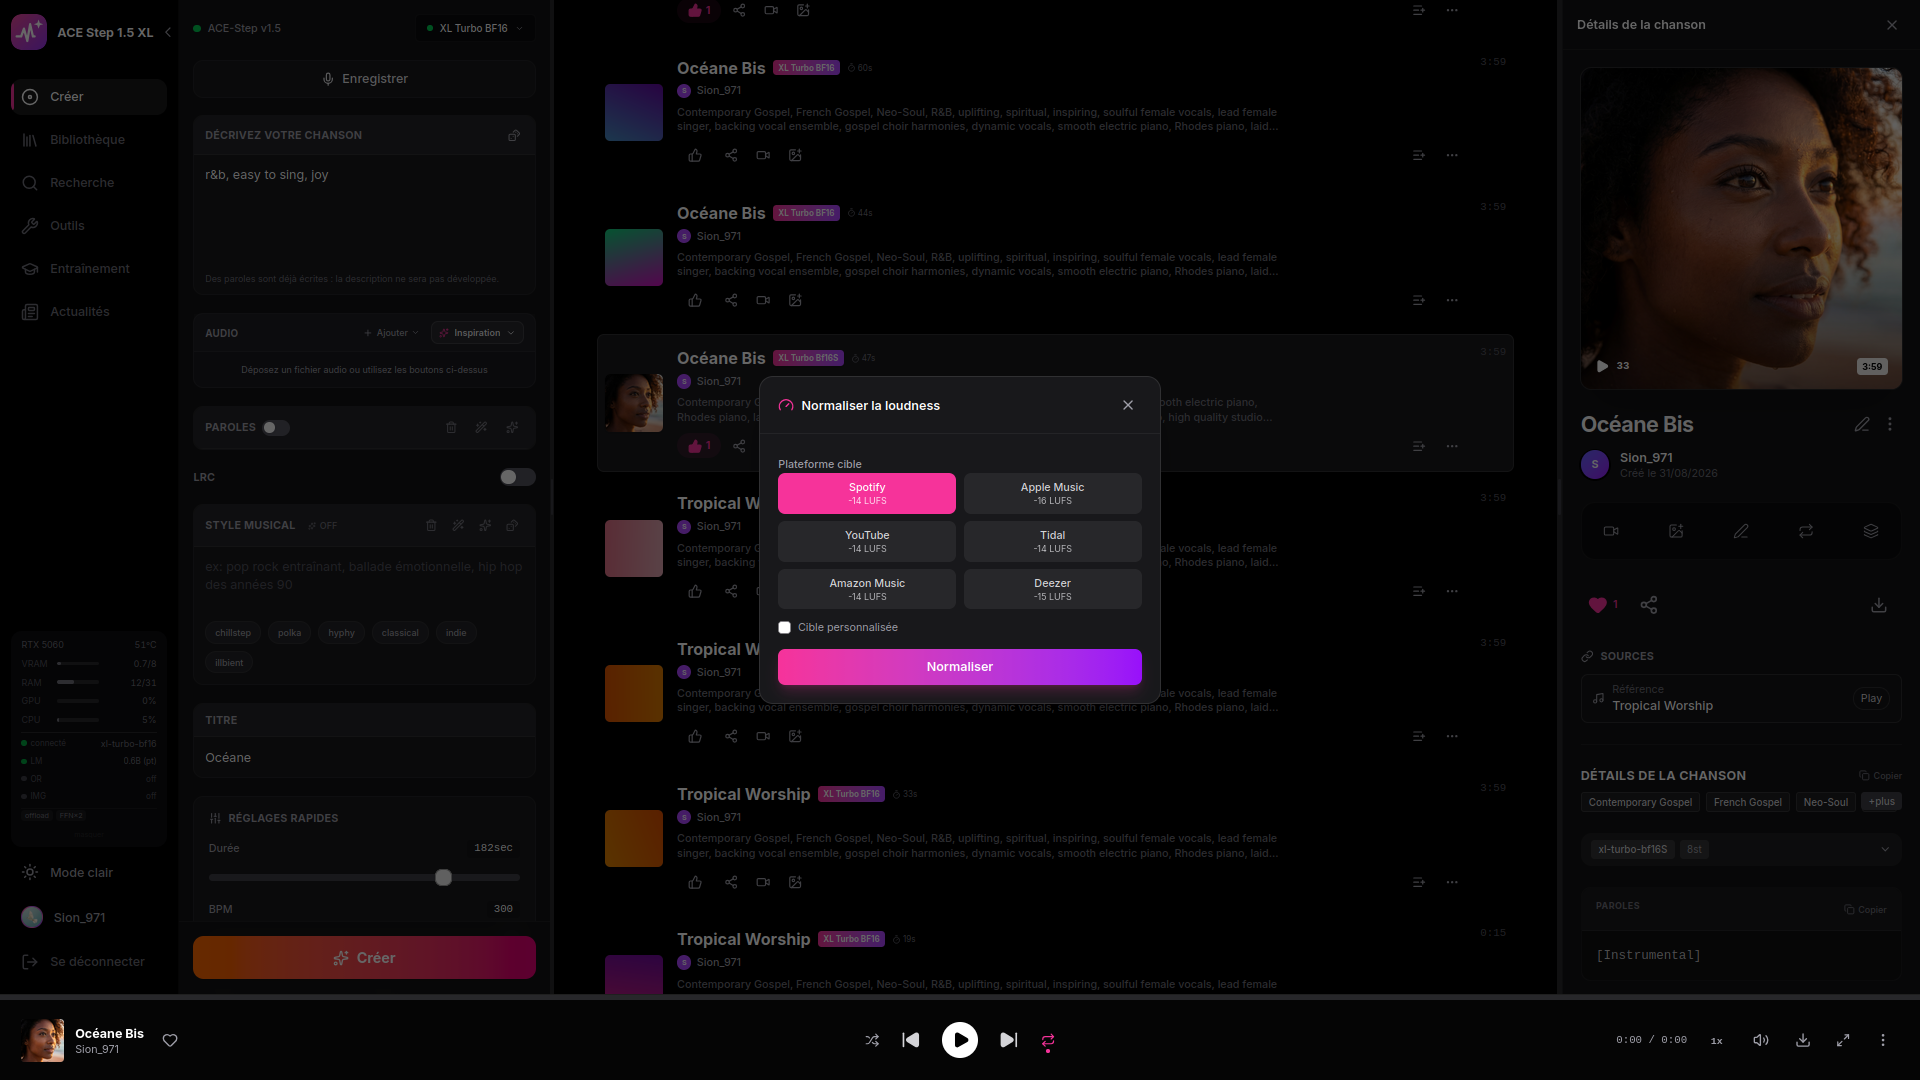
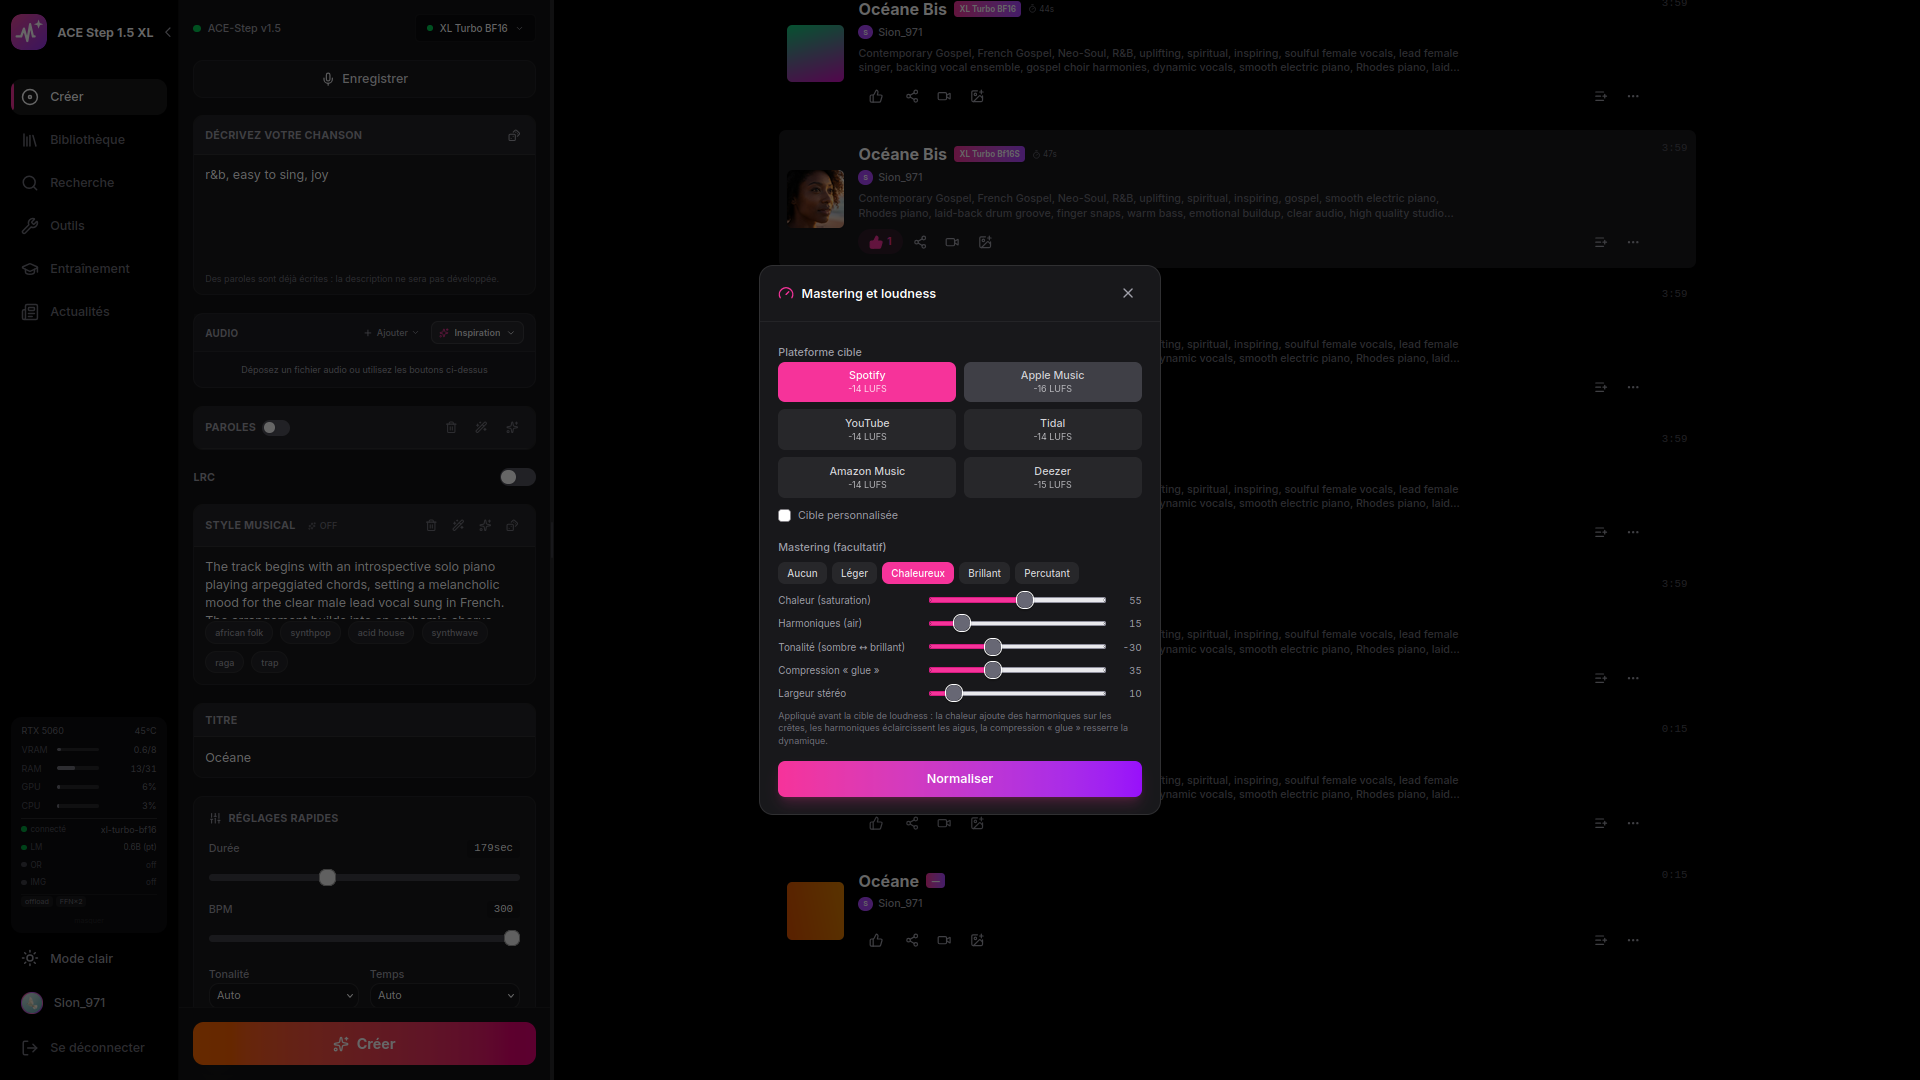
README : mastering et ecoute avant/apres ; captures de la fenetre refaites
Claude-Session: https://claude.ai/code/session_01B5iPA9vTox3QMnqfEgR6vu

diff --git a/README.md b/README.md
@@ -28,7 +28,7 @@ Both platforms share the same underlying approach: a single [`uv`](https://githu
 - **Playlists vs. Workspaces** — a real separation between curated playlists and working sessions, with exclusive workspace membership (a song lives in one workspace at a time) and a virtual "default" view computed by exclusion.
 - **Stem separation, server-side** — [Demucs](https://github.com/facebookresearch/demucs) running in its own isolated environment, in 4 or 6 stems (adding guitar and piano). Synchronized playback with a per-stem mute, and no more browser RAM ceiling on the 6-stem model.
 - **MIDI conversion, server-side** — [basic-pitch](https://github.com/spotify/basic-pitch) running in an isolated Python 3.11 environment (its TensorFlow dependency doesn't ship wheels for newer Python), converting stems to MIDI in seconds rather than tens of minutes in-browser, with a piano roll and built-in synthesizer to hear the result.
-- **Loudness normalization** — normalize a track to a streaming platform's LUFS target (Spotify, Apple Music, YouTube, ...) with two-pass `ffmpeg` loudnorm, and compare before/after before downloading.
+- **Mastering and loudness normalization** — optional mastering (warmth and harmonics, tone, glue compression, stereo width, with presets), then normalization to a streaming platform's LUFS target (Spotify, Apple Music, YouTube, ...) with two-pass `ffmpeg` loudnorm; compare the original and the result at the same volume before downloading.
 - **AudioMass, updated and wired in** — upgraded to the multitrack build, with direct-load support: open a single stem or all of a song's stems together as separate tracks, straight from the browser, no manual export/import round-trip.
 - **LoRA training from the UI** — the full scan → label → preprocess → train pipeline, drivable from React without dropping into Gradio directly.
 - **One installer per platform, both `uv`-based and GPU-aware** — detects your actual compute capability and compiler version, not just a menu choice, and knows when `flash-attn` will and won't build correctly for your hardware (Blackwell/RTX 50-series needs CUDA 12.8+ to compile it at all on Linux, or a matching prebuilt wheel on Windows — both installers check this before attempting work that's doomed to fail).
@@ -64,7 +64,7 @@ Both platforms share the same underlying approach: a single [`uv`](https://githu
   <em>All six Demucs stems, opened together as separate tracks in the AudioMass editor.</em>
 </p>
 
-### Stems, MIDI and loudness
+### Stems, MIDI, mastering and loudness
 
 <table>
   <tr>
@@ -81,16 +81,16 @@ Both platforms share the same underlying approach: a single [`uv`](https://githu
   </tr>
   <tr>
     <td align="center"><em>Stems and normalized download, one click from any song</em></td>
-    <td align="center"><em>Pick a streaming platform's LUFS target, or your own</em></td>
+    <td align="center"><em>Optional mastering, then a streaming platform's LUFS target (or your own)</em></td>
   </tr>
 </table>
 
 <p align="center">
-  <img src="app/docs/screenshots/09-loudness-compare.png" alt="Loudness before and after" width="400">
+  <img src="app/docs/screenshots/09-loudness-compare.png" alt="Before and after listening" width="400">
 </p>
 
 <p align="center">
-  <em>Listen to the original and the normalized version before downloading.</em>
+  <em>One play button and an Original / Mastered switch that keeps the position, with the measured loudness of both and an option to play them at the same volume.</em>
 </p>
 
 ---
@@ -141,7 +141,7 @@ Both platforms share the same underlying approach: a single [`uv`](https://githu
 | **Multitrack Audio Editor** | Trim, fade, and mix with AudioMass — open single stems or all of them together as separate tracks |
 | **Stem Extraction** | Separate a song into 4 stems (vocals, drums, bass, other) or 6 (adding guitar and piano) with Demucs, server-side, with synchronized playback and per-stem mute |
 | **MIDI Conversion** | Turn any stem into MIDI server-side, in seconds, with a piano roll and built-in synthesizer to hear it |
-| **Loudness Normalization** | Normalize a track to a streaming platform's LUFS target, with before/after listening |
+| **Mastering and Loudness** | Optional mastering (warmth, harmonics, tone, glue, width), then normalization to a streaming platform's LUFS target, with before/after listening at the same volume |
 | **LoRA Training** | Full training pipeline, driven from the UI |
 | **Video Generator** | Create music videos with Pexels backgrounds |
 | **Gradient Covers** | Procedural album art, no internet needed |
@@ -349,7 +349,7 @@ Generate several variations of the same prompt in one pass to compare results qu
 
 **MIDI Conversion (basic-pitch)** — runs server-side in its own isolated environment, converts any stem to MIDI in seconds. A piano roll shows the notes and a built-in synthesizer plays them back; the `.mid` file can be downloaded.
 
-**Loudness Normalization** — in a song's menu, **Télécharger normalisé…** adjusts the track to a platform's integrated-LUFS target using a two-pass `ffmpeg` loudnorm (measure, then apply an exact linear correction that preserves dynamics). Presets for Spotify, YouTube, Tidal, Amazon Music, Deezer and Apple Music, or a custom target, with before/after listening.
+**Loudness Normalization** — in a song's menu, **Télécharger normalisé…** adjusts the track to a platform's integrated-LUFS target using a two-pass `ffmpeg` loudnorm (measure, then apply an exact linear correction that preserves dynamics). Presets for Spotify, YouTube, Tidal, Amazon Music, Deezer and Apple Music, or a custom target. An optional mastering step runs first (soft saturation for warmth, high-frequency harmonics, tone, glue compression, stereo width, with Light, Warm, Bright and Punchy presets), so the target is reached on the mastered sound and a limiter holds the peak ceiling. Before/after listening uses one player with an Original / Mastered switch that keeps the position, shows both measured loudnesses and can play them at the same volume.
 
 **LoRA Training** — scan your dataset, label, preprocess, and train, all from the UI.
 
